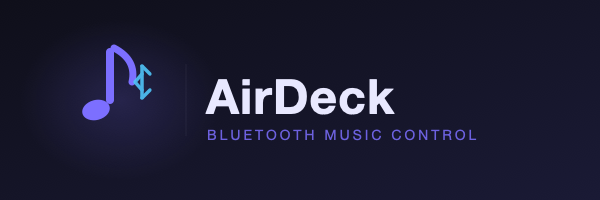
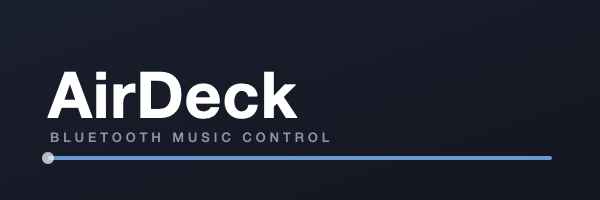
assets: update store assets and add header to README

Changed region(s): [[0.06, 0.21, 0.66, 0.63], [0.06, 0.63, 0.81, 0.72], [0.06, 0.75, 0.93, 0.84]]

diff --git a/README.md b/README.md
@@ -1,5 +1,9 @@
 # AirDeck 🎧
 
+<p align="center">
+  <img src="assets/header.png" alt="AirDeck" width="600">
+</p>
+
 AirDeck is a Decky Loader plugin for the Steam Deck that integrates mobile media playback controls directly into the Quick Access Menu (QAM) via Bluetooth (BlueZ DBus).
 
 It controls your music (Apple Music so no Cider to buy, Spotify, etc.) playing from your phone or external device right while gaming. It is really useful to play Forza Horizon 6.
@@ -35,19 +39,26 @@ To avoid typing your password every time, it is highly recommended to copy your 
 ```bash
 ssh-copy-id deck@<YOUR_STEAM_DECK_IP>
 
+```
+
 Once set up, you can build and deploy the plugin with the following commands. Replace <YOUR_STEAM_DECK_IP> with your Deck's actual IP address:
 
 # 1. Build the frontend
+```bash
 pnpm build
+````
 
 # 2. Deploy files to the Steam Deck
+```bash
 DECK_IP="<YOUR_STEAM_DECK_IP>"
 PLUGIN_DIR="~/homebrew/plugins/AppleMusicDeck"
 
 scp dist/index.js deck@$DECK_IP:$PLUGIN_DIR/dist/
 scp main.py deck@$DECK_IP:$PLUGIN_DIR/
+```
 
 # 3. Restart Decky to apply changes (Enter your sudo password when prompted)
+```bash
 ssh -t deck@$DECK_IP "sudo systemctl restart plugin_loader"
 ```
 